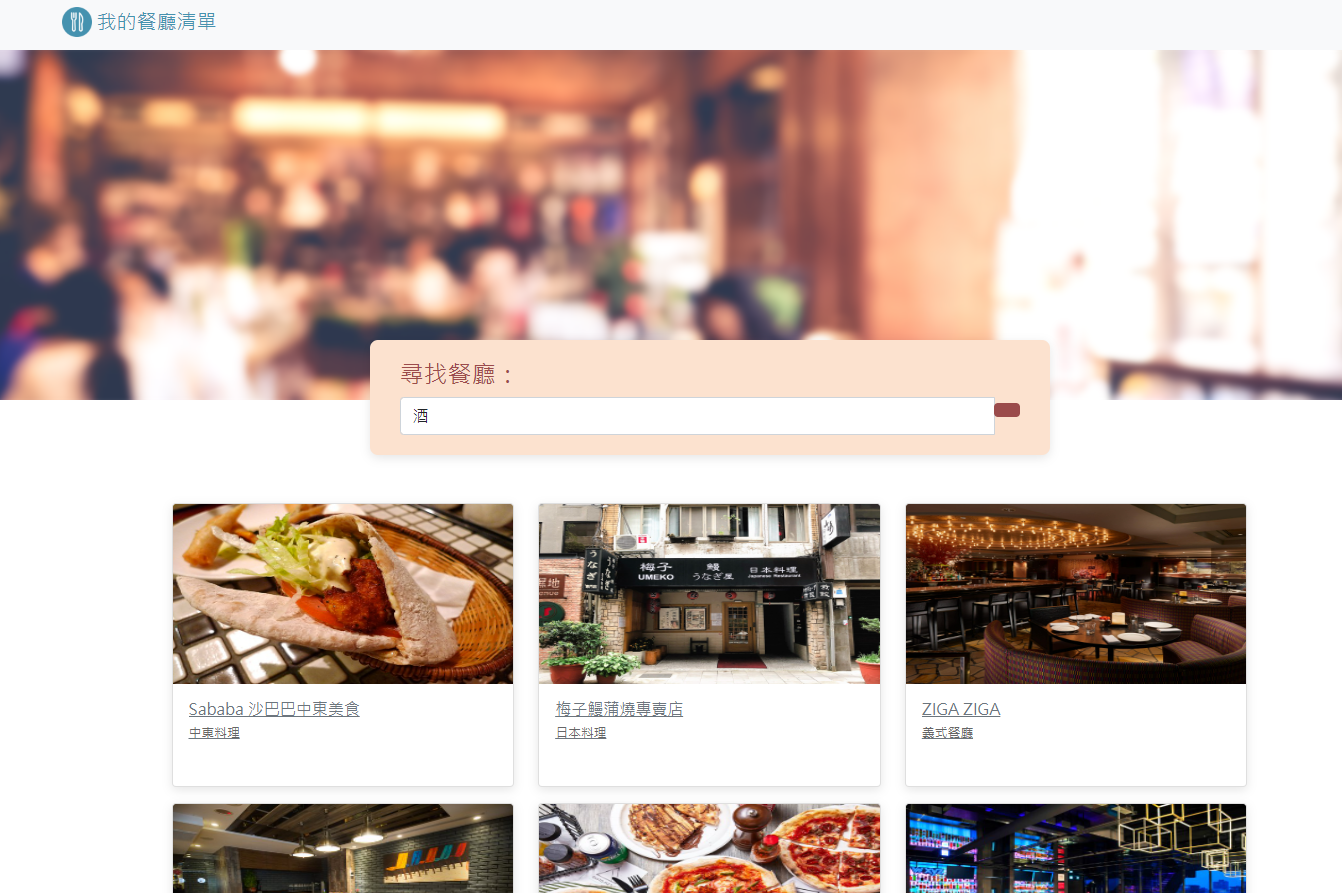
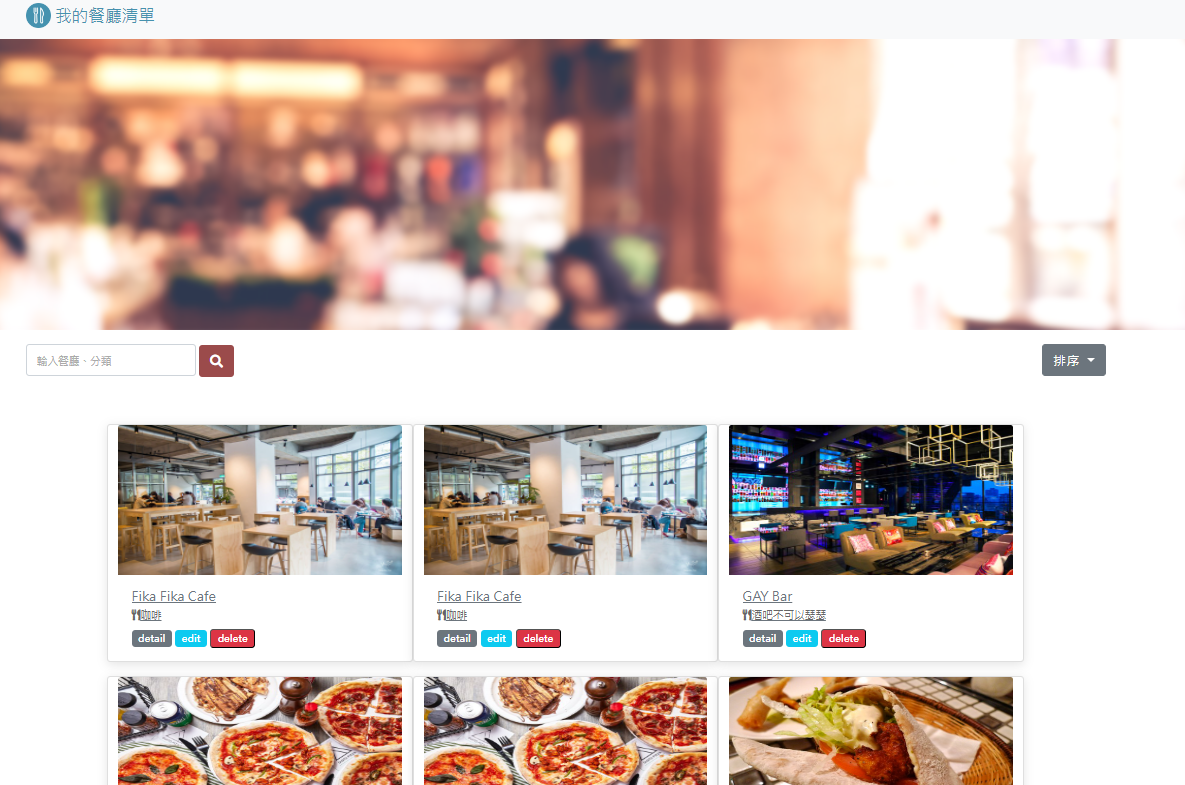
feat: update edit page for more integrity and move header to main

diff --git a/routes/modules/restaurants.js b/routes/modules/restaurants.js
@@ -22,20 +22,25 @@ router.get('/:restaurantId/edit', (req, res) => {
 router.put('/:restaurantId/edit', (req, res) => {
   const { restaurantId } = req.params
   const name = req.body.name
+  const name_en = req.body.name_en
   const category = req.body.category
-  const image = req.body.image
+  const rating = req.body.rating
   const location = req.body.location
-  const phone = req.body.phone
   const google_map = req.body.google_map
+  const phone = req.body.phone
   const description = req.body.description
+  const image = req.body.image
   return Restaurant.findById(restaurantId)
     .then(restaurant => {
       restaurant.name = name,
+      restaurant.name_en = name_en,
       restaurant.category = category,
-      restaurant.image = image,
+      restaurant.rating = rating,
       restaurant.location = location,
+      restaurant.google_map = google_map,
       restaurant.phone = phone,
-      restaurant.description = description
+      restaurant.description = description,
+      restaurant.image = image
       return restaurant.save()
     })
     .then(() => res.redirect(`/restaurants/${restaurantId}`))

diff --git a/README.md b/README.md
@@ -11,9 +11,11 @@
 
 ## Features - 產品功能
 
-1. 使用者可以瀏覽全部所有餐廳
+1. 使用者可以瀏覽所有餐廳
 2. 使用者可以點擊任一餐廳，查看更多餐廳資訊，如地址、電話與簡介
 3. 使用者可以依照中文名稱、英文名稱與餐廳類別進行搜尋
+4. 使用者可以編輯餐廳內容
+5. 使用者可以使用排序功能(建置中，目前僅限主頁)
 
 ## Environment SetUp - 環境建置
 
@@ -54,7 +56,7 @@ nodemon app.js
 7. 當 terminal 出現以下字樣，表示伺服器與資料庫已啟動並成功連結
 
 ```
-now server begins running on http://localhost:3000
+App i 1s running on http://localhost:3000
 
 ```
 
